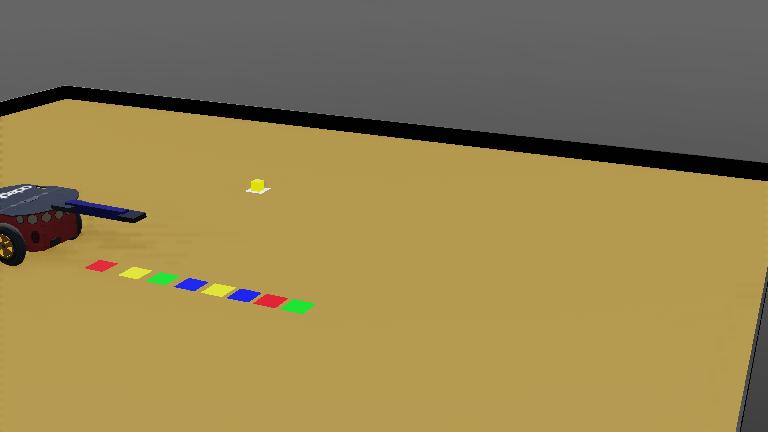
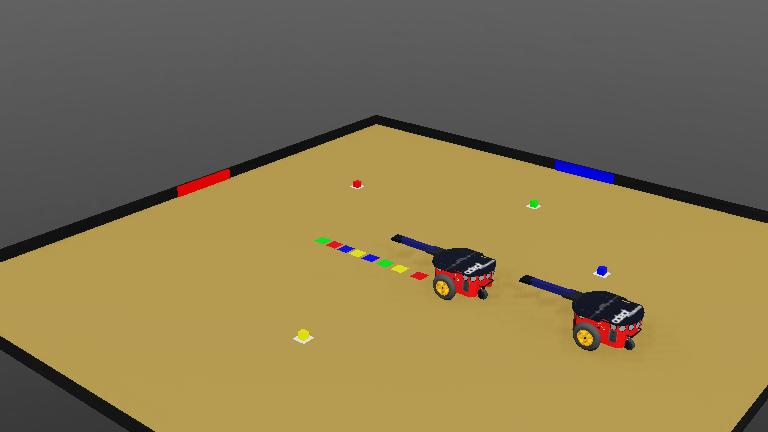
add another robot

diff --git a/controllers/controller2/controller2.py b/controllers/controller2/controller2.py
@@ -1,0 +1,313 @@
+from controller import Robot
+
+# ================== الإعداد (Setup) ==================
+robot = Robot()
+timestep = int(robot.getBasicTimeStep())
+
+# 1. تفعيل أجهزة الرؤية
+cam_reg = robot.getDevice("cam_reg")
+if cam_reg:
+    cam_reg.enable(timestep)
+    cam_reg.recognitionEnable(timestep)
+
+# 2. تفعيل أجهزة الحركة
+left_motor = robot.getDevice("left wheel")
+right_motor = robot.getDevice("right wheel")
+left_motor.setPosition(float('inf'))
+right_motor.setPosition(float('inf'))
+
+# 3. تفعيل الذراع والملقط
+arm_pitch = robot.getDevice("arm_pitch")
+gripper_left = robot.getDevice("gripper_left")
+gripper_right = robot.getDevice("gripper_right")
+
+# 4. تفعيل مستشعرات الملقط (مهم جداً لحل مشكلة الجدار)
+gl_sensor = robot.getDevice("gripper_left_sensor")
+gr_sensor = robot.getDevice("gripper_right_sensor")
+if gl_sensor: gl_sensor.enable(timestep)
+if gr_sensor: gr_sensor.enable(timestep)
+
+# 5. تفعيل حساسات المسافة (السونار)
+ps_sensors = []
+for i in range(8):
+    sensor_name = f'so{i}'
+    sensor = robot.getDevice(sensor_name)
+    if sensor:
+        sensor.enable(timestep)
+        ps_sensors.append(sensor)
+
+def set_speeds(l, r):
+    left_motor.setVelocity(l)
+    right_motor.setVelocity(r)
+
+def get_color_name(c):
+    if c[0] > 0.6 and c[1] < 0.4: return "RED"
+    elif c[0] > 0.6 and c[1] > 0.6: return "YELLOW"
+    elif c[1] > 0.6: return "GREEN"
+    elif c[2] > 0.6: return "BLUE"
+    return "UNKNOWN"
+
+# ================== متغيرات التحكم ==================
+state = "SCAN_FOR_MISMATCH"
+pickup_color = ""       
+delivery_color = ""     
+
+pickup_timer = 0
+max_x_seen = -1.0
+has_reached_peak = False
+
+# مسافات التوقف
+STOP_DISTANCE = 0.075        
+STOP_DISTANCE_TARGET = 0.15 
+
+# وضعيات الذراع
+ARM_UP_POS = -1.5   
+ARM_DOWN_POS = 0.8  
+
+# عتبة قوة الملقط (إذا زادت عنها يعني أمسكنا جداراً)
+WALL_FORCE_LIMIT = 5.0 
+
+print("🚀 Pioneer 3-DX2: جاهز مع نظام الحماية الشاملة...")
+
+# رفع الذراع للبداية
+arm_pitch.setPosition(ARM_UP_POS)
+
+while robot.step(timestep) != -1:
+    try:
+        # ====================================================
+        # 🛡 أولاً: نظام الحماية الشامل (يعمل في كل الحالات)
+        # ====================================================
+        obstacle_detected = False
+        # قراءة الحساسات الأمامية
+        for sensor in ps_sensors:
+            # القيمة تعتمد على المحاكاة، نفترض < 0.4 تعني قريب جداً وخطر
+            if sensor.getValue() > 0.0 and sensor.getValue() < 0.45:
+                obstacle_detected = True
+                break
+        
+        # إذا وجد عائق والروبوت ليس في لحظة حرجة جداً (مثل لحظة وضع المكعب)
+        # نستثني لحظة الرفع الدقيق فقط، أما الاقتراب والبحث فالحماية مفعلة
+        if obstacle_detected and state not in ["PICKUP_CRITICAL_MOMENT"]:
+            print(f"⛔ عائق! إعادة التموضع وإلغاء المسار الحالي...")
+            
+            # 1. التراجع والدوران للهروب
+            set_speeds(-0.8, -0.4) 
+            
+            # 2. ⚠ تصفير متغيرات القمة (هذا يضمن إعادة العملية بشكل صحيح)
+            # لأن الروبوت عندما يتراجع، مساره القديم يصبح خاطئاً
+            has_reached_peak = False
+            max_x_seen = -1.0
+            
+            # 3. إذا كنا في مرحلة اقتراب، نعيد المؤقتات
+            pickup_timer = 0
+            
+            # تخطي بقية الكود لهذا الإطار الزمني
+            continue 
+
+        # ====================================================
+        # ثانياً: منطق المهمات (State Machine)
+        # ====================================================
+        
+        # 1) البحث عن الاختلاف (Scanning)
+        if state == "SCAN_FOR_MISMATCH":
+            arm_pitch.setPosition(ARM_UP_POS)
+            set_speeds(0.5, -0.5) 
+            
+            objs = cam_reg.getRecognitionObjects()
+            cubes = [o for o in objs if o.getModel() != "TARGET"]
+            targets = [o for o in objs if o.getModel() == "TARGET"]
+
+            for cube in cubes:
+                for target in targets:
+                    c_pos = cube.getPosition()
+                    t_pos = target.getPosition()
+                    dist = ((c_pos[0]-t_pos[0])**2 + (c_pos[2]-t_pos[2])**2)**0.5
+                    
+                    if dist < 0.12: 
+                        c_color = get_color_name(cube.getColors())
+                        t_color = get_color_name(target.getColors())
+                        
+                        if c_color != t_color: 
+                            pickup_color = c_color
+                            delivery_color = c_color 
+                            print(f"🎯 الهدف: نقل {c_color} من {t_color}")
+                            
+                            # تهيئة متغيرات البحث
+                            has_reached_peak = False
+                            max_x_seen = -1.0
+                            state = "SEARCH_CUBE"
+                            break
+
+        # 2) التوجه للمكعب (مع خوارزمية القمة)
+        elif state == "SEARCH_CUBE":
+            arm_pitch.setPosition(ARM_UP_POS)
+            objs = cam_reg.getRecognitionObjects()
+            target_obj = None
+            if objs:
+                for o in objs:
+                    if o.getModel() != "TARGET" and get_color_name(o.getColors()) == pickup_color:
+                        target_obj = o
+                        break
+            
+            if target_obj:
+                pos = target_obj.getPosition()
+                
+                # --- خوارزمية القمة ---
+                if not has_reached_peak:
+                    if pos[0] >= max_x_seen:
+                        max_x_seen = pos[0]
+                        set_speeds(0.3, -0.3)
+                    else:
+                        has_reached_peak = True
+                else:
+                    # التحرك نحو المكعب
+                    if abs(pos[2]) > STOP_DISTANCE:
+                        set_speeds(0.8, 0.8)
+                    else:
+                        set_speeds(0, 0)
+                        state = "PICKUP_ACTION"
+                        pickup_timer = 0
+            else:
+                # دوران للبحث
+                set_speeds(0.5, -0.5)
+
+        # 3) عملية الالتقاط
+        elif state == "PICKUP_ACTION":
+            pickup_timer += 1
+            
+            if pickup_timer == 1:
+                print("👐 فتح الملقط...")
+                gripper_left.setPosition(0.09) 
+                gripper_right.setPosition(0.09)
+            elif pickup_timer == 40:
+                print("🔽 إنزال الذراع...")
+                arm_pitch.setPosition(ARM_DOWN_POS) 
+            elif pickup_timer == 90:
+                print("✊ محاولة الإمساك...")
+                gripper_left.setPosition(0.0) 
+                gripper_right.setPosition(0.0) 
+            
+            # لحظة التحقق الحاسمة
+            elif pickup_timer == 150:
+                left_f = gl_sensor.getValue()
+                right_f = gr_sensor.getValue()
+                max_force = max(left_f, right_f)
+
+                # --- 🛑 حماية الجدار (Wall Protection) ---
+                if max_force > WALL_FORCE_LIMIT: 
+                    print(f"🚨 تحذير: أمسكت بجدار (القوة {max_force:.2f})! تحرير فوري...")
+                    # فتح الملقط فوراً
+                    gripper_left.setPosition(0.09)
+                    gripper_right.setPosition(0.09)
+                    # الانتقال لحالة الطوارئ
+                    state = "EMERGENCY_RELEASE"
+                    pickup_timer = 0
+                
+                # التحقق الطبيعي (مكعب)
+                elif left_f > 0.002 or right_f > 0.002:
+                    print(f"📦 تم الالتقاط. رفع الذراع...")
+                    state = "LIFTING"
+                    pickup_timer = 0
+                else:
+                    print("⚠ فشل الالتقاط (فراغ). إعادة التموضع...")
+                    state = "RETRY_MOVE"
+                    pickup_timer = 0
+
+        # 4) حالة الطوارئ عند الإمساك بالجدار (تمنع الانقلاب)
+        elif state == "EMERGENCY_RELEASE":
+            pickup_timer += 1
+            arm_pitch.setPosition(ARM_UP_POS) # رفع الذراع
+            
+            if pickup_timer < 50:
+                set_speeds(-1.0, -1.0) # تراجع سريع للخلف
+            else:
+                print("🔄 إعادة المحاولة بعد الخطأ...")
+                has_reached_peak = False
+                max_x_seen = -1.0
+                state = "SEARCH_CUBE" # العودة للبحث
+                pickup_timer = 0
+
+        # 5) إعادة التموضع عند الفشل (Retry Logic)
+        elif state == "RETRY_MOVE":
+            pickup_timer += 1
+            arm_pitch.setPosition(ARM_UP_POS)
+            
+            if pickup_timer < 50:
+                set_speeds(-1.0, -1.0) # تراجع للخلف
+            else:
+                # تصفير المتغيرات لإعادة البحث الدقيق
+                print("🔄 إعادة تشغيل خوارزمية البحث...")
+                has_reached_peak = False 
+                max_x_seen = -1.0
+                state = "SEARCH_CUBE"
+                pickup_timer = 0
+
+        # 6) الرفع
+        elif state == "LIFTING":
+            # سرعة ورفع
+            arm_pitch.setVelocity(0.8)
+            arm_pitch.setPosition(ARM_UP_POS) 
+            
+            pickup_timer += 1
+            if pickup_timer > 80:
+                print(f"🚚 التوجه للهدف {delivery_color}...")
+                has_reached_peak = False
+                max_x_seen = -1.0
+                state = "SEARCH_TARGET"
+                pickup_timer = 0
+
+        # 7) البحث عن الهدف
+        elif state == "SEARCH_TARGET":
+            arm_pitch.setPosition(ARM_UP_POS) 
+            objs = cam_reg.getRecognitionObjects()
+            target_obj = None
+            if objs:
+                for o in objs:
+                    if o.getModel() == "TARGET" and get_color_name(o.getColors()) == delivery_color:
+                        target_obj = o
+                        break
+            
+            if target_obj:
+                pos = target_obj.getPosition()
+                if not has_reached_peak:
+                    if pos[0] >= max_x_seen:
+                        max_x_seen = pos[0]
+                        set_speeds(0.3, -0.3)
+                    else:
+                        has_reached_peak = True
+                else:
+                    if abs(pos[2]) > STOP_DISTANCE_TARGET:
+                        set_speeds(0.8, 0.8)
+                    else:
+                        set_speeds(0, 0)
+                        state = "DROP_ACTION"
+                        pickup_timer = 0
+            else:
+                set_speeds(0.5, -0.5)
+
+        # 8) وضع المكعب
+        elif state == "DROP_ACTION":
+            pickup_timer += 1
+            
+            if pickup_timer == 10:
+                print("🔽 إنزال...")
+                arm_pitch.setPosition(ARM_DOWN_POS)
+            
+            elif pickup_timer == 50: 
+                print("👐 إفلات المكعب...")
+                gripper_left.setPosition(0.09)
+                gripper_right.setPosition(0.09)
+
+            elif pickup_timer == 80:
+                print("🔼 رفع وابتعاد...")
+                arm_pitch.setPosition(ARM_UP_POS)
+                set_speeds(-1.0, -1.0)
+                
+            elif pickup_timer == 130:
+                set_speeds(0, 0)
+                state = "SCAN_FOR_MISMATCH"
+                pickup_timer = 0
+
+    except Exception as e:
+        print(f"⚠ Error: {e}")
+        break
